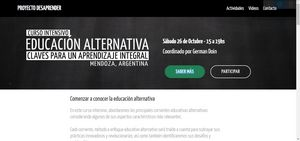
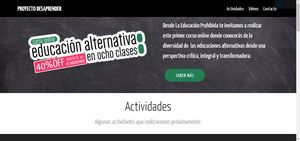
PROMO DICIEMBRE

diff --git a/curso/index.html b/curso/index.html
@@ -57,7 +57,7 @@ src="https://www.facebook.com/tr?id=927746117427355&ev=PageView
     <div class="container">
         <div class="media-container-row">
             <div class="mbr-figure" style="width: 120%;">
-                <img src="assets/images/logo-nov-1085x500.png" alt="Mobirise" title="">
+                <img src="assets/images/logo-dic-1116x529.png" alt="Mobirise" title="">
             </div>
 
             <div class="media-content">
@@ -74,7 +74,7 @@ src="https://www.facebook.com/tr?id=927746117427355&ev=PageView
 
 </section>
 
-<section class="engine"><a href="https://mobirise.info/a">online web builder</a></section><section class="cid-r6cGhRHPLU" id="video2-1f">
+<section class="engine"><a href="https://mobirise.info/s">free bootstrap themes</a></section><section class="cid-r6cGhRHPLU" id="video2-1f">
 
     
     
@@ -373,7 +373,7 @@ src="https://www.facebook.com/tr?id=927746117427355&ev=PageView
         <div class="col-md-12">
             <div class="media-container-row">
                 <div class="mbr-figure" style="width: 45%;">
-                    <img src="assets/images/cuadrado-nov-767x767.png" alt="Mobirise" title="">
+                    <img src="assets/images/descuento-diciembre-844x844.png" alt="Mobirise" title="">
                 </div>
                 <div class="align-left aside-content">
                     <h2 class="mbr-title pt-2 mbr-fonts-style display-2">
@@ -404,7 +404,7 @@ src="https://www.facebook.com/tr?id=927746117427355&ev=PageView
         <div class="col-md-12">
             <div class="media-container-row">
                 <div class="mbr-figure" style="width: 45%;">
-                    <img src="assets/images/cuadrado-nov-767x767.png" alt="Mobirise" title="">
+                    <img src="assets/images/descuento-diciembre-844x844.png" alt="Mobirise" title="">
                 </div>
                 <div class="align-left aside-content">
                     <h2 class="mbr-title pt-2 mbr-fonts-style display-2">Resto del Mundo</h2>
@@ -433,15 +433,15 @@ src="https://www.facebook.com/tr?id=927746117427355&ev=PageView
                     <h2 class="mbr-section-title pb-5 mbr-fonts-style display-2">Preguntas Frecuentes</h2>
                 </div>
                 <div class="clearfix"></div>
-                <div id="bootstrap-accordion_11" class="panel-group accordionStyles accordion" role="tablist" aria-multiselectable="true">
+                <div id="bootstrap-accordion_12" class="panel-group accordionStyles accordion" role="tablist" aria-multiselectable="true">
                     <div class="card">
                         <div class="card-header" role="tab" id="headingOne">
-                            <a role="button" class="panel-title collapsed text-black" data-toggle="collapse" data-core="" href="#collapse1_11" aria-expanded="false" aria-controls="collapse1">
+                            <a role="button" class="panel-title collapsed text-black" data-toggle="collapse" data-core="" href="#collapse1_12" aria-expanded="false" aria-controls="collapse1">
                                 <h4 class="mbr-fonts-style display-5">
                                     <span class="sign mbr-iconfont mbri-arrow-down inactive"></span>Porqué Online?</h4>
                             </a>
                         </div>
-                        <div id="collapse1_11" class="panel-collapse noScroll collapse " role="tabpanel" aria-labelledby="headingOne" data-parent="#bootstrap-accordion_11">
+                        <div id="collapse1_12" class="panel-collapse noScroll collapse " role="tabpanel" aria-labelledby="headingOne" data-parent="#bootstrap-accordion_12">
                             <div class="panel-body p-4">
                                 <p class="mbr-fonts-style panel-text display-7">
                                    Desde 2014 venimos realizando cursos presenciales con diversos formatos y objetivos en Argentina, Perú, Colombia, Brasil. En 2018 decidimos desarrollar una propuesta organizada que pusimos a prueba en diferentes ciudades de Argentina. La gran demanda del curso fuera del país nos invitó a pensar en la viabilidad de un Curso Online.</p>
@@ -450,13 +450,13 @@ src="https://www.facebook.com/tr?id=927746117427355&ev=PageView
                     </div>
                     <div class="card">
                         <div class="card-header" role="tab" id="headingTwo">
-                            <a role="button" class="collapsed panel-title text-black" data-toggle="collapse" data-core="" href="#collapse2_11" aria-expanded="false" aria-controls="collapse2">
+                            <a role="button" class="collapsed panel-title text-black" data-toggle="collapse" data-core="" href="#collapse2_12" aria-expanded="false" aria-controls="collapse2">
                                 <h4 class="mbr-fonts-style display-5">
                                     <span class="sign mbr-iconfont mbri-arrow-down inactive"></span>Para quienes está dirigido?</h4>
                             </a>
                             
                         </div>
-                        <div id="collapse2_11" class="panel-collapse noScroll collapse" role="tabpanel" aria-labelledby="headingTwo" data-parent="#bootstrap-accordion_11">
+                        <div id="collapse2_12" class="panel-collapse noScroll collapse" role="tabpanel" aria-labelledby="headingTwo" data-parent="#bootstrap-accordion_12">
                             <div class="panel-body p-4">
                                 <p class="mbr-fonts-style panel-text display-7">
                                    El curso está pensado como una introducción necesaria al universo de las educaciones alternativas. Consideramos que cualquier personas que quiera trabajar con estas perspectivas, criar a sus hijos o incluirlas en su práctica pedagógica, necesita comprender las educaciones alternativas desde una visión integral y crítica. La mayoría de las formaciones y cursos tienen una mirada sesgada que prioriza su paradigma pedagógico de preferencia, nosotros entendemos que conocer la diversidad es vital para comprender las falencias de nuestra práctica, nuestros lugares comunes y aquello que necesitamos integrar a nuestro cotidiano.</p>
@@ -465,12 +465,12 @@ src="https://www.facebook.com/tr?id=927746117427355&ev=PageView
                     </div>
                     <div class="card">
                         <div class="card-header" role="tab" id="headingThree">
-                            <a role="button" class="collapsed text-black panel-title" data-toggle="collapse" data-core="" href="#collapse3_11" aria-expanded="false" aria-controls="collapse3">
+                            <a role="button" class="collapsed text-black panel-title" data-toggle="collapse" data-core="" href="#collapse3_12" aria-expanded="false" aria-controls="collapse3">
                                 <h4 class="mbr-fonts-style display-5">
                                     <span class="sign mbr-iconfont mbri-arrow-down inactive"></span><em>Qué requisitos técnicos tiene?</em><br></h4>
                             </a>
                         </div>
-                        <div id="collapse3_11" class="panel-collapse noScroll collapse" role="tabpanel" aria-labelledby="headingThree" data-parent="#bootstrap-accordion_11">
+                        <div id="collapse3_12" class="panel-collapse noScroll collapse" role="tabpanel" aria-labelledby="headingThree" data-parent="#bootstrap-accordion_12">
                             <div class="panel-body p-4">
                                 <p class="mbr-fonts-style panel-text display-7">Ténicamente sólo tienes que contar con una cuenta en Facebook, ya que todo el curso se desarrollará en un grupo cerrado que nos permitirá mantener conversaciones, compartir materiales, videos y realizar transmisiones en vivo.</p>
                             </div>
@@ -478,12 +478,12 @@ src="https://www.facebook.com/tr?id=927746117427355&ev=PageView
                     </div>
                     <div class="card">
                         <div class="card-header" role="tab" id="headingFour">
-                            <a role="button" class="collapsed panel-title text-black" data-toggle="collapse" data-core="" href="#collapse4_11" aria-expanded="false" aria-controls="collapse4">
+                            <a role="button" class="collapsed panel-title text-black" data-toggle="collapse" data-core="" href="#collapse4_12" aria-expanded="false" aria-controls="collapse4">
                                 <h4 class="mbr-fonts-style display-5">
                                     <span class="sign mbr-iconfont mbri-arrow-down inactive"></span>Puedo confiar en ustedes?</h4>
                             </a> 
                         </div>
-                        <div id="collapse4_11" class="panel-collapse noScroll collapse" role="tabpanel" aria-labelledby="headingFour" data-parent="#bootstrap-accordion_11">
+                        <div id="collapse4_12" class="panel-collapse noScroll collapse" role="tabpanel" aria-labelledby="headingFour" data-parent="#bootstrap-accordion_12">
                             <div class="panel-body p-4">
                                 <p class="mbr-fonts-style panel-text display-7">Desde 2009 nos dedicamos a investigar y promover educaciones alternativas. Ya en 2010 más de 700 personas colaboraron con la realización de La Educación Prohibida, luego cientos participaron económicamente con el trabajo que realizamos coordinando redes como Reevo a escala latinoamericana. Este curso es una instancia más, pensada en llevar nuestra experiencia a más personas como vos.</p>
                             </div>
@@ -491,12 +491,12 @@ src="https://www.facebook.com/tr?id=927746117427355&ev=PageView
                     </div>
                     <div class="card">
                         <div class="card-header" role="tab" id="headingFive">
-                            <a role="button" class="collapsed panel-title text-black" data-toggle="collapse" data-core="" href="#collapse5_11" aria-expanded="false" aria-controls="collapse5">
+                            <a role="button" class="collapsed panel-title text-black" data-toggle="collapse" data-core="" href="#collapse5_12" aria-expanded="false" aria-controls="collapse5">
                                 <h4 class="mbr-fonts-style display-5">
                                     <span class="sign mbr-iconfont mbri-arrow-down inactive"></span>Cuanto tiempo tendré acceso a los materiales?</h4>
                             </a>
                         </div>
-                        <div id="collapse5_11" class="panel-collapse noScroll collapse" role="tabpanel" aria-labelledby="headingFive" data-parent="#bootstrap-accordion_11">
+                        <div id="collapse5_12" class="panel-collapse noScroll collapse" role="tabpanel" aria-labelledby="headingFive" data-parent="#bootstrap-accordion_12">
                             <div class="panel-body p-4">
                                 <p class="mbr-fonts-style panel-text display-7">
                                    Mientras mantengas tu cuenta de Facebook abierta y seas parte del grupo, tendrás acceso ilimitado a los contenidos publicados. El curso no tiene duración determinada, el grupo y sus contenidos permanecerán abiertos para tu acceso cuando lo necesites. </p>

diff --git a/curso/suteba.html b/curso/suteba.html
@@ -74,7 +74,7 @@ src="https://www.facebook.com/tr?id=927746117427355&ev=PageView
 
 </section>
 
-<section class="engine"><a href="https://mobirise.info/t">amp templates</a></section><section class="cid-rFi4xErP3G" id="video2-2d">
+<section class="engine"><a href="https://mobirise.info/w">free html5 templates</a></section><section class="cid-rFi4xErP3G" id="video2-2d">
 
     
     
@@ -404,15 +404,15 @@ src="https://www.facebook.com/tr?id=927746117427355&ev=PageView
                     <h2 class="mbr-section-title pb-5 mbr-fonts-style display-2">Preguntas Frecuentes</h2>
                 </div>
                 <div class="clearfix"></div>
-                <div id="bootstrap-accordion_36" class="panel-group accordionStyles accordion" role="tablist" aria-multiselectable="true">
+                <div id="bootstrap-accordion_34" class="panel-group accordionStyles accordion" role="tablist" aria-multiselectable="true">
                     <div class="card">
                         <div class="card-header" role="tab" id="headingOne">
-                            <a role="button" class="panel-title collapsed text-black" data-toggle="collapse" data-core="" href="#collapse1_36" aria-expanded="false" aria-controls="collapse1">
+                            <a role="button" class="panel-title collapsed text-black" data-toggle="collapse" data-core="" href="#collapse1_34" aria-expanded="false" aria-controls="collapse1">
                                 <h4 class="mbr-fonts-style display-5">
                                     <span class="sign mbr-iconfont mbri-arrow-down inactive"></span>Porqué Online?</h4>
                             </a>
                         </div>
-                        <div id="collapse1_36" class="panel-collapse noScroll collapse " role="tabpanel" aria-labelledby="headingOne" data-parent="#bootstrap-accordion_36">
+                        <div id="collapse1_34" class="panel-collapse noScroll collapse " role="tabpanel" aria-labelledby="headingOne" data-parent="#bootstrap-accordion_34">
                             <div class="panel-body p-4">
                                 <p class="mbr-fonts-style panel-text display-7">
                                    Desde 2014 venimos realizando cursos presenciales con diversos formatos y objetivos en Argentina, Perú, Colombia, Brasil. En 2018 decidimos desarrollar una propuesta organizada que pusimos a prueba en diferentes ciudades de Argentina. La gran demanda del curso fuera del país nos invitó a pensar en la viabilidad de un Curso Online.</p>
@@ -421,13 +421,13 @@ src="https://www.facebook.com/tr?id=927746117427355&ev=PageView
                     </div>
                     <div class="card">
                         <div class="card-header" role="tab" id="headingTwo">
-                            <a role="button" class="collapsed panel-title text-black" data-toggle="collapse" data-core="" href="#collapse2_36" aria-expanded="false" aria-controls="collapse2">
+                            <a role="button" class="collapsed panel-title text-black" data-toggle="collapse" data-core="" href="#collapse2_34" aria-expanded="false" aria-controls="collapse2">
                                 <h4 class="mbr-fonts-style display-5">
                                     <span class="sign mbr-iconfont mbri-arrow-down inactive"></span>Para quienes está dirigido?</h4>
                             </a>
                             
                         </div>
-                        <div id="collapse2_36" class="panel-collapse noScroll collapse" role="tabpanel" aria-labelledby="headingTwo" data-parent="#bootstrap-accordion_36">
+                        <div id="collapse2_34" class="panel-collapse noScroll collapse" role="tabpanel" aria-labelledby="headingTwo" data-parent="#bootstrap-accordion_34">
                             <div class="panel-body p-4">
                                 <p class="mbr-fonts-style panel-text display-7">
                                    El curso está pensado como una introducción necesaria al universo de las educaciones alternativas. Consideramos que cualquier personas que quiera trabajar con estas perspectivas, criar a sus hijos o incluirlas en su práctica pedagógica, necesita comprender las educaciones alternativas desde una visión integral y crítica. La mayoría de las formaciones y cursos tienen una mirada sesgada que prioriza su paradigma pedagógico de preferencia, nosotros entendemos que conocer la diversidad es vital para comprender las falencias de nuestra práctica, nuestros lugares comunes y aquello que necesitamos integrar a nuestro cotidiano.</p>
@@ -436,12 +436,12 @@ src="https://www.facebook.com/tr?id=927746117427355&ev=PageView
                     </div>
                     <div class="card">
                         <div class="card-header" role="tab" id="headingThree">
-                            <a role="button" class="collapsed text-black panel-title" data-toggle="collapse" data-core="" href="#collapse3_36" aria-expanded="false" aria-controls="collapse3">
+                            <a role="button" class="collapsed text-black panel-title" data-toggle="collapse" data-core="" href="#collapse3_34" aria-expanded="false" aria-controls="collapse3">
                                 <h4 class="mbr-fonts-style display-5">
                                     <span class="sign mbr-iconfont mbri-arrow-down inactive"></span><em>Qué requisitos técnicos tiene?</em><br></h4>
                             </a>
                         </div>
-                        <div id="collapse3_36" class="panel-collapse noScroll collapse" role="tabpanel" aria-labelledby="headingThree" data-parent="#bootstrap-accordion_36">
+                        <div id="collapse3_34" class="panel-collapse noScroll collapse" role="tabpanel" aria-labelledby="headingThree" data-parent="#bootstrap-accordion_34">
                             <div class="panel-body p-4">
                                 <p class="mbr-fonts-style panel-text display-7">Ténicamente sólo tienes que contar con una cuenta en Facebook, ya que todo el curso se desarrollará en un grupo cerrado que nos permitirá mantener conversaciones, compartir materiales, videos y realizar transmisiones en vivo.</p>
                             </div>
@@ -449,12 +449,12 @@ src="https://www.facebook.com/tr?id=927746117427355&ev=PageView
                     </div>
                     <div class="card">
                         <div class="card-header" role="tab" id="headingFour">
-                            <a role="button" class="collapsed panel-title text-black" data-toggle="collapse" data-core="" href="#collapse4_36" aria-expanded="false" aria-controls="collapse4">
+                            <a role="button" class="collapsed panel-title text-black" data-toggle="collapse" data-core="" href="#collapse4_34" aria-expanded="false" aria-controls="collapse4">
                                 <h4 class="mbr-fonts-style display-5">
                                     <span class="sign mbr-iconfont mbri-arrow-down inactive"></span>Puedo confiar en ustedes?</h4>
                             </a> 
                         </div>
-                        <div id="collapse4_36" class="panel-collapse noScroll collapse" role="tabpanel" aria-labelledby="headingFour" data-parent="#bootstrap-accordion_36">
+                        <div id="collapse4_34" class="panel-collapse noScroll collapse" role="tabpanel" aria-labelledby="headingFour" data-parent="#bootstrap-accordion_34">
                             <div class="panel-body p-4">
                                 <p class="mbr-fonts-style panel-text display-7">Desde 2009 nos dedicamos a investigar y promover educaciones alternativas. Ya en 2010 más de 700 personas colaboraron con la realización de La Educación Prohibida, luego cientos participaron económicamente con el trabajo que realizamos coordinando redes como Reevo a escala latinoamericana. Este curso es una instancia más, pensada en llevar nuestra experiencia a más personas como vos.</p>
                             </div>
@@ -462,12 +462,12 @@ src="https://www.facebook.com/tr?id=927746117427355&ev=PageView
                     </div>
                     <div class="card">
                         <div class="card-header" role="tab" id="headingFive">
-                            <a role="button" class="collapsed panel-title text-black" data-toggle="collapse" data-core="" href="#collapse5_36" aria-expanded="false" aria-controls="collapse5">
+                            <a role="button" class="collapsed panel-title text-black" data-toggle="collapse" data-core="" href="#collapse5_34" aria-expanded="false" aria-controls="collapse5">
                                 <h4 class="mbr-fonts-style display-5">
                                     <span class="sign mbr-iconfont mbri-arrow-down inactive"></span>Cuanto tiempo tendré acceso a los materiales?</h4>
                             </a>
                         </div>
-                        <div id="collapse5_36" class="panel-collapse noScroll collapse" role="tabpanel" aria-labelledby="headingFive" data-parent="#bootstrap-accordion_36">
+                        <div id="collapse5_34" class="panel-collapse noScroll collapse" role="tabpanel" aria-labelledby="headingFive" data-parent="#bootstrap-accordion_34">
                             <div class="panel-body p-4">
                                 <p class="mbr-fonts-style panel-text display-7">
                                    Mientras mantengas tu cuenta de Facebook abierta y seas parte del grupo, tendrás acceso ilimitado a los contenidos publicados. El curso no tiene duración determinada, el grupo y sus contenidos permanecerán abiertos para tu acceso cuando lo necesites. </p>

diff --git a/desaprender.html b/desaprender.html
@@ -53,7 +53,7 @@
     </nav>
 </section>
 
-<section class="engine"><a href="https://mobirise.info/s">free bootstrap theme</a></section><section class="header3 cid-r7qnNRUAeB mbr-parallax-background" id="header3-1o">
+<section class="engine"><a href="https://mobirise.info/i">website creation software</a></section><section class="header3 cid-r7qnNRUAeB mbr-parallax-background" id="header3-1o">
 
     
 
@@ -178,15 +178,15 @@
                         Agenda</h2>
                 </div>
                 <div class="clearfix"></div>
-                <div id="bootstrap-accordion_28" class="panel-group accordionStyles accordion" role="tablist" aria-multiselectable="true">
+                <div id="bootstrap-accordion_15" class="panel-group accordionStyles accordion" role="tablist" aria-multiselectable="true">
                     <div class="card">
                         <div class="card-header" role="tab" id="headingOne">
-                            <a role="button" class="panel-title collapsed text-black" data-toggle="collapse" data-core="" href="#collapse1_28" aria-expanded="false" aria-controls="collapse1">
+                            <a role="button" class="panel-title collapsed text-black" data-toggle="collapse" data-core="" href="#collapse1_15" aria-expanded="false" aria-controls="collapse1">
                                 <h4 class="mbr-fonts-style display-5">
                                     <span class="sign mbr-iconfont mbri-arrow-down inactive"></span>&nbsp;Viernes: ¿Quién soy?</h4>
                             </a>
                         </div>
-                        <div id="collapse1_28" class="panel-collapse noScroll collapse " role="tabpanel" aria-labelledby="headingOne" data-parent="#bootstrap-accordion_28">
+                        <div id="collapse1_15" class="panel-collapse noScroll collapse " role="tabpanel" aria-labelledby="headingOne" data-parent="#bootstrap-accordion_15">
                             <div class="panel-body p-4">
                                 <p class="mbr-fonts-style panel-text display-7">17:00 Hs
 <br>Llegada: Dinámica de presentación, desde el juego. 
@@ -199,14 +199,14 @@
                     </div>
                     <div class="card">
                         <div class="card-header" role="tab" id="headingTwo">
-                            <a role="button" class="collapsed panel-title text-black" data-toggle="collapse" data-core="" href="#collapse2_28" aria-expanded="false" aria-controls="collapse2">
+                            <a role="button" class="collapsed panel-title text-black" data-toggle="collapse" data-core="" href="#collapse2_15" aria-expanded="false" aria-controls="collapse2">
                                 <h4 class="mbr-fonts-style display-5">
                                     <span class="sign mbr-iconfont mbri-arrow-down inactive"></span>&nbsp;Sábado: ¿Qué hicieron conmigo?
 <div><br></div></h4>
                             </a>
                             
                         </div>
-                        <div id="collapse2_28" class="panel-collapse noScroll collapse" role="tabpanel" aria-labelledby="headingTwo" data-parent="#bootstrap-accordion_28">
+                        <div id="collapse2_15" class="panel-collapse noScroll collapse" role="tabpanel" aria-labelledby="headingTwo" data-parent="#bootstrap-accordion_15">
                             <div class="panel-body p-4">
                                 <p class="mbr-fonts-style panel-text display-7">8:30 Hs 
 <br>Desayuno
@@ -233,13 +233,13 @@
                     </div>
                     <div class="card">
                         <div class="card-header" role="tab" id="headingThree">
-                            <a role="button" class="collapsed text-black panel-title" data-toggle="collapse" data-core="" href="#collapse3_28" aria-expanded="false" aria-controls="collapse3">
+                            <a role="button" class="collapsed text-black panel-title" data-toggle="collapse" data-core="" href="#collapse3_15" aria-expanded="false" aria-controls="collapse3">
                                 <h4 class="mbr-fonts-style display-5">
                                     <span class="sign mbr-iconfont mbri-arrow-down inactive"></span>&nbsp;Domingo: ¿Qué hago yo con lxs demás?
 </h4>
                             </a>
                         </div>
-                        <div id="collapse3_28" class="panel-collapse noScroll collapse" role="tabpanel" aria-labelledby="headingThree" data-parent="#bootstrap-accordion_28">
+                        <div id="collapse3_15" class="panel-collapse noScroll collapse" role="tabpanel" aria-labelledby="headingThree" data-parent="#bootstrap-accordion_15">
                             <div class="panel-body p-4">
                                 <p class="mbr-fonts-style panel-text display-7">8:30 Hs 
 <br>Meditación Activa

diff --git a/index.html b/index.html
@@ -53,7 +53,7 @@
     </nav>
 </section>
 
-<section class="engine"><a href="https://mobirise.info">Mobirise</a></section><section class="header3 cid-rdSqKphtix mbr-parallax-background" id="header3-3n">
+<section class="engine"><a href="https://mobirise.info/z">best free website templates</a></section><section class="header3 cid-rdSqKphtix mbr-parallax-background" id="header3-3n">
 
     
 
@@ -62,7 +62,7 @@
     <div class="container">
         <div class="media-container-row">
             <div class="mbr-figure" style="width: 120%;">
-                <a href="https://desaprenderonline.com/curso/"><img src="assets/images/logo-nov-1085x500.png" alt="Mobirise" title=""></a>
+                <a href="https://desaprenderonline.com/curso/"><img src="assets/images/logo-dic-1116x529.png" alt="Mobirise" title=""></a>
             </div>
 
             <div class="media-content">
@@ -135,10 +135,10 @@
                         <img src="assets/images/grupo-1-676x332.png" alt="Mobirise" title="">
                     </div>
                     <div class="card-box">
-                        <h4 class="card-title mbr-fonts-style display-7"><strong>Curso Intensivo&nbsp;</strong><br>Mendoza</h4>
+                        <h4 class="card-title mbr-fonts-style display-7"><strong>Curso Intensivo&nbsp;</strong><br>Una perspectiva integrativa</h4>
                         <p class="mbr-text mbr-fonts-style display-7">Un curso intensivo de 4 horas para conocer las claves de la educación alternativa con una mirada en la construcción de proyectos educativos integrales.</p>
                     </div>
-                    <div class="mbr-section-btn text-center"><a href="mendoza.html" class="btn btn-primary display-4">26 DE OCTUBRE</a></div>
+                    <div class="mbr-section-btn text-center"><a href="http://wa.me/5491142970879" class="btn btn-primary-outline display-4">CONSULTAR</a></div>
                 </div>
             </div>
 

diff --git a/curso/page3.html b/curso/page3.html
@@ -89,7 +89,7 @@ src="https://www.facebook.com/tr?id=927746117427355&ev=PageView
 </section>
 
 
-  <section class="engine"><a href="https://mobirise.info/a">online website builder</a></section><script src="assets/web/assets/jquery/jquery.min.js"></script>
+  <section class="engine"><a href="https://mobirise.info/g">how to build a website</a></section><script src="assets/web/assets/jquery/jquery.min.js"></script>
   <script src="assets/popper/popper.min.js"></script>
   <script src="assets/tether/tether.min.js"></script>
   <script src="assets/bootstrap/js/bootstrap.min.js"></script>

diff --git a/curso/mp.html b/curso/mp.html
@@ -66,7 +66,7 @@ src="https://www.facebook.com/tr?id=927746117427355&ev=PageView
     
 </section>
 
-<section class="engine"><a href="https://mobirise.info/f">easy website builder</a></section><section class="mbr-section info1 cid-ri7ohx3Vin" id="info1-1y">
+<section class="engine"><a href="https://mobirise.info/j">website templates</a></section><section class="mbr-section info1 cid-ri7ohx3Vin" id="info1-1y">
 
     
 

diff --git a/curso/paypal.html b/curso/paypal.html
@@ -65,7 +65,7 @@ src="https://www.facebook.com/tr?id=927746117427355&ev=PageView
     
 </section>
 
-<section class="engine"><a href="https://mobirise.info/j">website templates</a></section><section class="mbr-section info1 cid-ri7oLpli5f" id="info1-1z">
+<section class="engine"><a href="https://mobirise.info/w">free html5 templates</a></section><section class="mbr-section info1 cid-ri7oLpli5f" id="info1-1z">
 
     
 

diff --git a/taller.html b/taller.html
@@ -53,7 +53,7 @@
     </nav>
 </section>
 
-<section class="engine"><a href="https://mobirise.info/r">free bootstrap template</a></section><section class="header3 cid-rjW6AeZTAV mbr-parallax-background" id="header3-41">
+<section class="engine"><a href="https://mobirise.info/u">bootstrap website templates</a></section><section class="header3 cid-rjW6AeZTAV mbr-parallax-background" id="header3-41">
 
     
 

diff --git a/taller-inscripcion.html b/taller-inscripcion.html
@@ -52,7 +52,7 @@
     </nav>
 </section>
 
-<section class="engine"><a href="https://mobirise.info/e">make a website</a></section><section class="header3 cid-rbdiFFcSJG mbr-parallax-background" id="header3-3j">
+<section class="engine"><a href="https://mobirise.info/e">make your own site for free</a></section><section class="header3 cid-rbdiFFcSJG mbr-parallax-background" id="header3-3j">
 
     
 

diff --git a/desaprender-inscripcion.html b/desaprender-inscripcion.html
@@ -52,7 +52,7 @@
     </nav>
 </section>
 
-<section class="engine"><a href="https://mobirise.info/d">website maker</a></section><section class="header3 cid-r7TvRGX9xJ mbr-parallax-background" id="header3-2s">
+<section class="engine"><a href="https://mobirise.info/z">best free website templates</a></section><section class="header3 cid-r7TvRGX9xJ mbr-parallax-background" id="header3-2s">
 
     
 

diff --git a/quienes.html b/quienes.html
@@ -52,7 +52,7 @@
     </nav>
 </section>
 
-<section class="engine"><a href="https://mobirise.info/l">free web templates</a></section><section class="mbr-section content4 cid-r7qFN8rQj1" id="content4-2p">
+<section class="engine"><a href="https://mobirise.info/g">how to build your own website for free</a></section><section class="mbr-section content4 cid-r7qFN8rQj1" id="content4-2p">
 
     
 

diff --git a/mendoza.html b/mendoza.html
@@ -53,7 +53,7 @@
     </nav>
 </section>
 
-<section class="engine"><a href="https://mobirise.info/x">css templates</a></section><section class="header3 cid-rDjcNPfXMA mbr-parallax-background" id="header3-56">
+<section class="engine"><a href="https://mobirise.info/e">make your own website</a></section><section class="header3 cid-rDjcNPfXMA mbr-parallax-background" id="header3-56">
 
     
 
